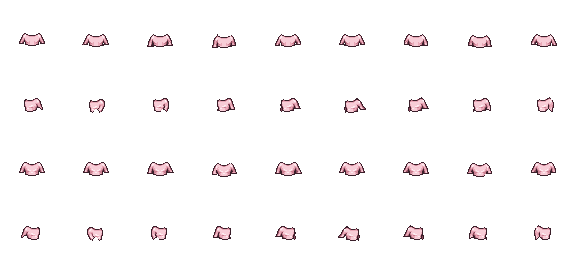
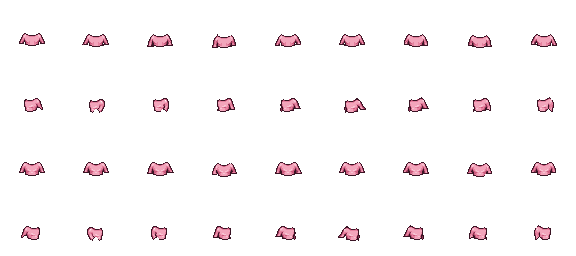
[시험] LPC 엄마 옷: 더 진한 핑크로 (거의 흰색으로 보여서)
Claude-Session: https://claude.ai/code/session_012DpUhBuYEK6wTKz318yJQS

diff --git a/CLAUDE.md b/CLAUDE.md
@@ -112,7 +112,7 @@
   - **제작대는 볼만·글자·그림 크기(2026-11-14 부모님):** 마을 아래 버튼 **[🔮 제작대] [🔨 만들기] [📖 방명록] [🎒 가방]**. 🔮 제작대(`WorkbenchSheet`, 지도 위 제작대 건물을 눌러도 같은 창)는 **볼만** 만듦(묘목 줄 없음), 🌳 열매나무 묘목은 🔨 만들기 → 🌱 서식지 칸 `SaplingRecipe`(레시피·개수 그대로 열매 5(섞어서 자동)+돌멩이 2, 나무 최대면 이유, 만들면 "🎒 가방에서 심어 보자"). 마을 화면·마을 창·마을이 열린 동안의 팝업은 `word-break: keep-all`. 마을 포켓몬 그림은 `AnimMon` 1.5배 → 1배(2/3), 돌아다니는 포켓몬은 서준이·파트너·서로가 있는 칸에 가지 않고 겹치면 바로 비킴(0.9초마다). 앱 화면의 "수련"은 이미 모두 "훈련"(확인함).
   - **제작대 글자·마을 반말(2026-11-14 부모님):** 레시피 열매 합계는 🍎 대신 글자 "열매 183/10"(`.cost-word`, 🍎가 사과로 보여서), 묘목이 나무 최대로 막히면 버튼 옆에 크게 "🌳 나무 자리가 꽉 찼어 (나무 2 + 가방 1)"(`.recipe-why`), 제작대 열매 이름·레시피 설명 글씨 한두 단계 크게(`.workbench-berries`·`.workbench-recipes`). **마을 안 아이용 문구는 모두 반말**("나와요" → "나와"): 마을 화면·창, `lib/village*.ts` 안내·막힘 말, 엔진 마을 동작(`villageEnter`~`openCraftedBall`)·`villageAccess`의 막힘 말(보호자용 시험 문구는 그대로 존댓말). 제작 볼 문구는 "아직 도감에 없는 포켓몬이 나와! 마을에서 만난 포켓몬이 먼저 나와".
   - **📘 마을 설명서(2026-11-14, `docs/manual-prompt.md` 기준):** 아이용 `public/guide/village.html`(정적 HTML, 첫 장 = 그림 버튼 목차 7묶음 [🚶 걷기·줍기 | 🔨 만들기 | 🔮 볼 만들기 | 📖 방명록 | 🎣 낚시·벌레 | 🏠 마을점수·열쇠 | 🍎 먹이기] 묶음마다 3~4장, 묶음 끝에 "📘 목차로"·"다음 묶음", 목차의 "처음부터 끝까지 보기", 주소 `#걷기` `#만들기` `#볼만들기` `#방명록` `#낚시` `#마을점수` `#먹이기`로 바로 그 묶음; 마을 창 아래 "📘 설명서 보기"(`village.tsx`: 제작대 → 볼만들기, 방명록 → 방명록, 만들기·가방·심기 → 만들기, 만들기 도구 칸 → 낚시), 옆으로 밀기, 큰 글씨 반말, `word-break: keep-all`, 그림 `public/guide/img/*.jpg` = `/village-demo`와 첫 화면을 390×844로 찍어 540px로 줄인 것). 마을 위쪽 ❓ 옆 **📘 설명서** 버튼(`VillageLevelBar` `onGuide`) → `village.tsx`가 `createPortal`로 전체 화면 iframe(`.village-guide-frame`), 설명서 "닫기"가 `postMessage {type:'pq-guide-close'}`(따로 열었으면 `/`로). 부모용 표 `docs/village-guide-parent.md`(숫자는 처음 값, 바꾸는 곳). 규칙·숫자가 바뀌면 둘 다 고치고 그림을 다시 찍음. 기록은 건드리지 않음.
-  - **[시험] 사람 그림 LPC 비교(2026-11-20 부모님 요청, 옷 입히기·가족 캐릭터를 위해 바꿀지 판단용, `/village-demo`에서만):** 위쪽 [지금 캐릭터 | LPC] 버튼(주소 `?lpc=1`), LPC면 서준 옷 [파란 티셔츠 | 빨간 폴로] + 🧢 빨간 반다나. 그림 `public/assets/village/lpc/*.png`(Universal LPC Spritesheet Character Generator의 걷기 그림 walk.png, 64×64 칸 9장×4줄, 색은 원본 팔레트로 바꿈), 출처 `public/assets/village/lpc/CREDITS.md`·`CREDITS.csv`(원본 CREDITS.csv 그대로, OGA-BY 3.0 / CC-BY-SA 3.0 / CC-BY / GPL 3.0 / CC0). 정의 `lib/village-lpc.ts`(`LPC_SCALE` 2 = 정수 배, 층 순서 몸·신발·바지·윗옷·머리·머리카락·모자, `seojunLayers`, `LPC_FAMILY` 하준(어린이 몸)·엄마·아빠(둘 다 청소년 몸 + 긴팔: 어른 몸은 가슴·근육이 부각돼서 부모님이 싫어함); 옷 색(부모님): 서준 빨간 티셔츠(갈아입기 파란 폴로)·엄마 연핑크 긴팔(직접 만든 색)·하준 노랑 셔츠(하늘색 원본을 노랑으로)·아빠 초록 긴팔, 그리기 `components/game/village-lpc.tsx`(`LpcSprite` 층마다 같은 칸 위치, `useLpcWalk` 한 걸음에 4장, `LpcWalker`), `village.tsx` `lpcTest` 속성(없으면 예전 그대로; 가족은 처음 자리 2칸 안에서 1.6초마다 가끔 한 칸, 사람·포켓몬과 안 겹치게, 포켓몬도 가족 칸을 피함). 서준은 LPC "어린이" 몸에 옷이 셔츠·바지 한 가지씩뿐이고 모자가 없어서 시험은 "청소년" 몸. 진짜 마을·아이 기록은 그대로. **같은 날 고침(부모님: "인간이 너무 크다", "얼굴이 못생겼다, 부드러운 건?")**: 크기 [1배 | 1.5배(기본) | 2배] `LPC_SCALES`, 얼굴 [처음 | 웃는 얼굴(`face_happy` = LPC 표정 happy2) | 아이 얼굴(기본: LPC 어린이 머리·머리카락을 4px 올려 청소년 몸에 `*_on_teen`)], [부드러운 테두리](기본 켬: 그림마다 `_soft` = 투명과 맞닿은 어두운 바깥 테두리만 진한 갈색, `softLayers`). 이름표 높이는 배율로 계산. 서준 비율(부모님: "머리통만 조금 크게, 몸통은 어른보다 조금 작게"): 서준 그림은 모두 `_sj`(몸·옷은 64칸 기준 41·47·53번 줄을 빼서 3px 작게, 머리·머리카락·표정·모자는 엄마·아빠 머리(22×21)와 같아 보이게 가운데 세로 줄 겹침 +2·이마 2줄·눈 아래·턱 줄 겹침 +4 = 21×21(처음엔 가로만 늘려 "머리 찌부"라 하셔서 고침); 점을 빼고 겹치기만 해서 흐리지 않음).
+  - **[시험] 사람 그림 LPC 비교(2026-11-20 부모님 요청, 옷 입히기·가족 캐릭터를 위해 바꿀지 판단용, `/village-demo`에서만):** 위쪽 [지금 캐릭터 | LPC] 버튼(주소 `?lpc=1`), LPC면 서준 옷 [파란 티셔츠 | 빨간 폴로] + 🧢 빨간 반다나. 그림 `public/assets/village/lpc/*.png`(Universal LPC Spritesheet Character Generator의 걷기 그림 walk.png, 64×64 칸 9장×4줄, 색은 원본 팔레트로 바꿈), 출처 `public/assets/village/lpc/CREDITS.md`·`CREDITS.csv`(원본 CREDITS.csv 그대로, OGA-BY 3.0 / CC-BY-SA 3.0 / CC-BY / GPL 3.0 / CC0). 정의 `lib/village-lpc.ts`(`LPC_SCALE` 2 = 정수 배, 층 순서 몸·신발·바지·윗옷·머리·머리카락·모자, `seojunLayers`, `LPC_FAMILY` 하준(어린이 몸)·엄마·아빠(둘 다 청소년 몸 + 긴팔: 어른 몸은 가슴·근육이 부각돼서 부모님이 싫어함); 옷 색(부모님): 서준 빨간 티셔츠(갈아입기 파란 폴로)·엄마 연핑크 긴팔(직접 만든 색, 처음엔 너무 하얘서 더 진하게)·하준 노랑 셔츠(하늘색 원본을 노랑으로)·아빠 초록 긴팔, 그리기 `components/game/village-lpc.tsx`(`LpcSprite` 층마다 같은 칸 위치, `useLpcWalk` 한 걸음에 4장, `LpcWalker`), `village.tsx` `lpcTest` 속성(없으면 예전 그대로; 가족은 처음 자리 2칸 안에서 1.6초마다 가끔 한 칸, 사람·포켓몬과 안 겹치게, 포켓몬도 가족 칸을 피함). 서준은 LPC "어린이" 몸에 옷이 셔츠·바지 한 가지씩뿐이고 모자가 없어서 시험은 "청소년" 몸. 진짜 마을·아이 기록은 그대로. **같은 날 고침(부모님: "인간이 너무 크다", "얼굴이 못생겼다, 부드러운 건?")**: 크기 [1배 | 1.5배(기본) | 2배] `LPC_SCALES`, 얼굴 [처음 | 웃는 얼굴(`face_happy` = LPC 표정 happy2) | 아이 얼굴(기본: LPC 어린이 머리·머리카락을 4px 올려 청소년 몸에 `*_on_teen`)], [부드러운 테두리](기본 켬: 그림마다 `_soft` = 투명과 맞닿은 어두운 바깥 테두리만 진한 갈색, `softLayers`). 이름표 높이는 배율로 계산. 서준 비율(부모님: "머리통만 조금 크게, 몸통은 어른보다 조금 작게"): 서준 그림은 모두 `_sj`(몸·옷은 64칸 기준 41·47·53번 줄을 빼서 3px 작게, 머리·머리카락·표정·모자는 엄마·아빠 머리(22×21)와 같아 보이게 가운데 세로 줄 겹침 +2·이마 2줄·눈 아래·턱 줄 겹침 +4 = 21×21(처음엔 가로만 늘려 "머리 찌부"라 하셔서 고침); 점을 빼고 겹치기만 해서 흐리지 않음).
   - **시험용 마을 창 `/village-demo`**(2026-11-13 부모님 요청: "시험용 마을 들어간 상태의 창"): `app/village-demo/village-demo.tsx`가 서버에 아무것도 보내지 않고 화면 안에서 진짜 규칙(`applyAction`·`syncVillage`·`childView`)을 돌림. 오늘 미션 끝낸 상태 + 나오하 파트너·뜨아거·피카츄 친구 + 재료 6종 12씩·서식지 3개(손님, 초록 풀숲은 큰 덤불 숲)·꾸미기(울타리·꽃·벤치)·땅 바꾸기(돌길·연못 칸)·가방에 몇 개로 시작, 새로고침하면 처음으로. 아이의 진짜 기록·미리보기 기록 어디에도 저장 안 됨, 화면 아래 보라색 "시험용 마을" 띠.
   - 보호자: 학습 현황 `VillageReport`(열림·마을 시간·재료·서식지·오늘 손님), 활동 그래프·표에 "마을" 초록 막대, 내보내기 `하루활동.마을분`·`포켓몬마을`. 시뮬레이션(개발 탭 `VillageSimTools`): 문제은행 다 푼 상태로(`simVillage bankDone`), 재료 +10(`mats`), 손님은 "다음 날로". 테스트 `lib/village.test.ts`.
 - **포켓로그 판 안 진화 스위치:** `settings.battle_evolution_allowed`(기본 꺼짐), 보호자 공간 포켓로그 칸 "배틀 중 진화 허용" 버튼(`setBattleEvolution`). `/api/battle` GET과 `/api/battle/progress` 응답의 `evolution`을 게임이 받아(`quiz-link.ts` `isBattleEvolutionAllowed`, 기기 localStorage에 마지막 값 기억) 꺼져 있으면 `pokemon.ts` `getEvolution`이 플레이어 포켓몬에 null을 주고, `init-modifier-pools.ts`가 진화 아이템 가중치를 0으로 둠. 부모님 결정(2026-09-28): 진화는 퀴즈 스탯으로만.
